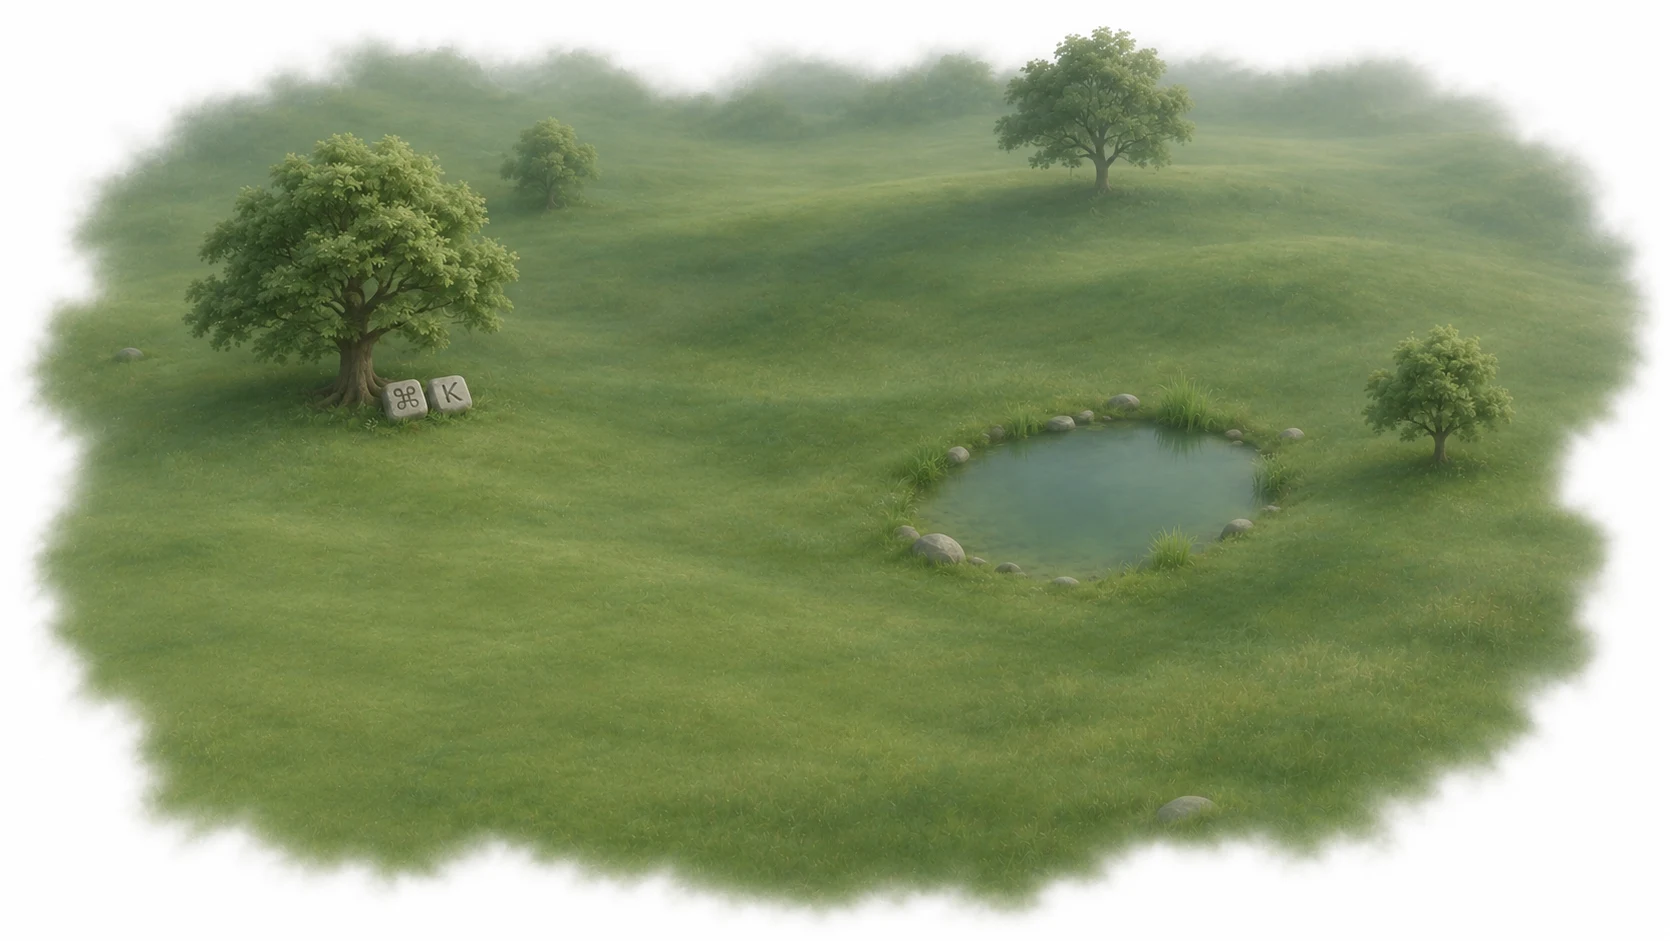
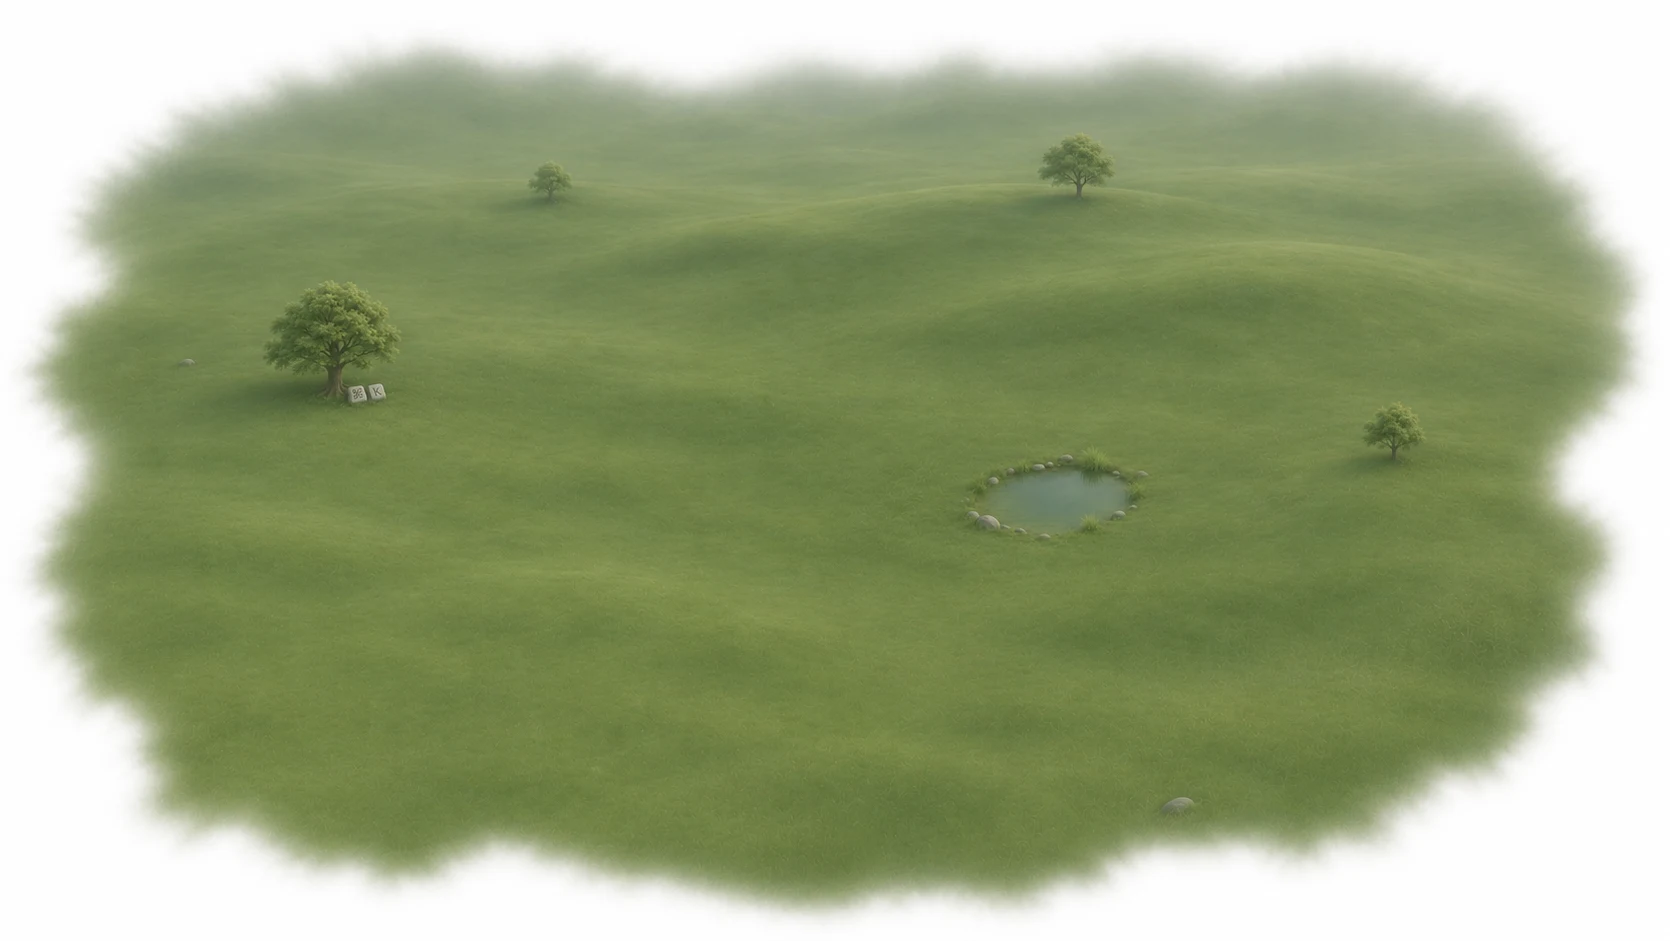
Match distant meadow scale with smaller landscape objects

diff --git a/src/components/concept/meadow-scene.ts b/src/components/concept/meadow-scene.ts
@@ -7,10 +7,10 @@ type Tree = { x: number; y: number; rx: number; ry: number; phase: number; patch
 type Seed = { x: number; y: number; phase: number; size: number; speed: number };
 
 const trees: Tree[] = [
-  { x: 350, y: 270, rx: 150, ry: 155, phase: .3 },
-  { x: 1100, y: 135, rx: 105, ry: 110, phase: 1.4 },
-  { x: 1440, y: 390, rx: 75, ry: 80, phase: 2.2 },
-  { x: 545, y: 170, rx: 60, ry: 65, phase: 3.8 },
+  { x: 333, y: 337, rx: 75, ry: 65, phase: .3 },
+  { x: 1078, y: 163, rx: 45, ry: 40, phase: 1.4 },
+  { x: 1393, y: 431, rx: 38, ry: 35, phase: 2.2 },
+  { x: 550, y: 184, rx: 28, ry: 28, phase: 3.8 },
 ];
 
 function makePatch(image: HTMLImageElement, tree: Tree): HTMLCanvasElement {
@@ -101,8 +101,8 @@ export function setupMeadowScene() {
         context.fill();
       }
 
-      const pondX = 1090;
-      const pondY = 480;
+      const pondX = 1055;
+      const pondY = 495;
       const glint = Math.sin(time * 1.4) * 9;
       context.beginPath();
       context.ellipse(pondX + glint, pondY, 21, 4, -.28, 0, Math.PI * 2);
@@ -142,7 +142,7 @@ export function setupMeadowScene() {
       const rect = canvas.getBoundingClientRect();
       const x = (event.clientX - rect.left) / rect.width * WIDTH;
       const y = (event.clientY - rect.top) / rect.height * HEIGHT;
-      if (Math.hypot((x - 1090) / 130, (y - 480) / 90) < 1) ripple = { x, y, at: gsap.ticker.time };
+      if (Math.hypot((x - 1055) / 75, (y - 495) / 35) < 1) ripple = { x, y, at: gsap.ticker.time };
     });
     gsap.ticker.add(render);
   });
